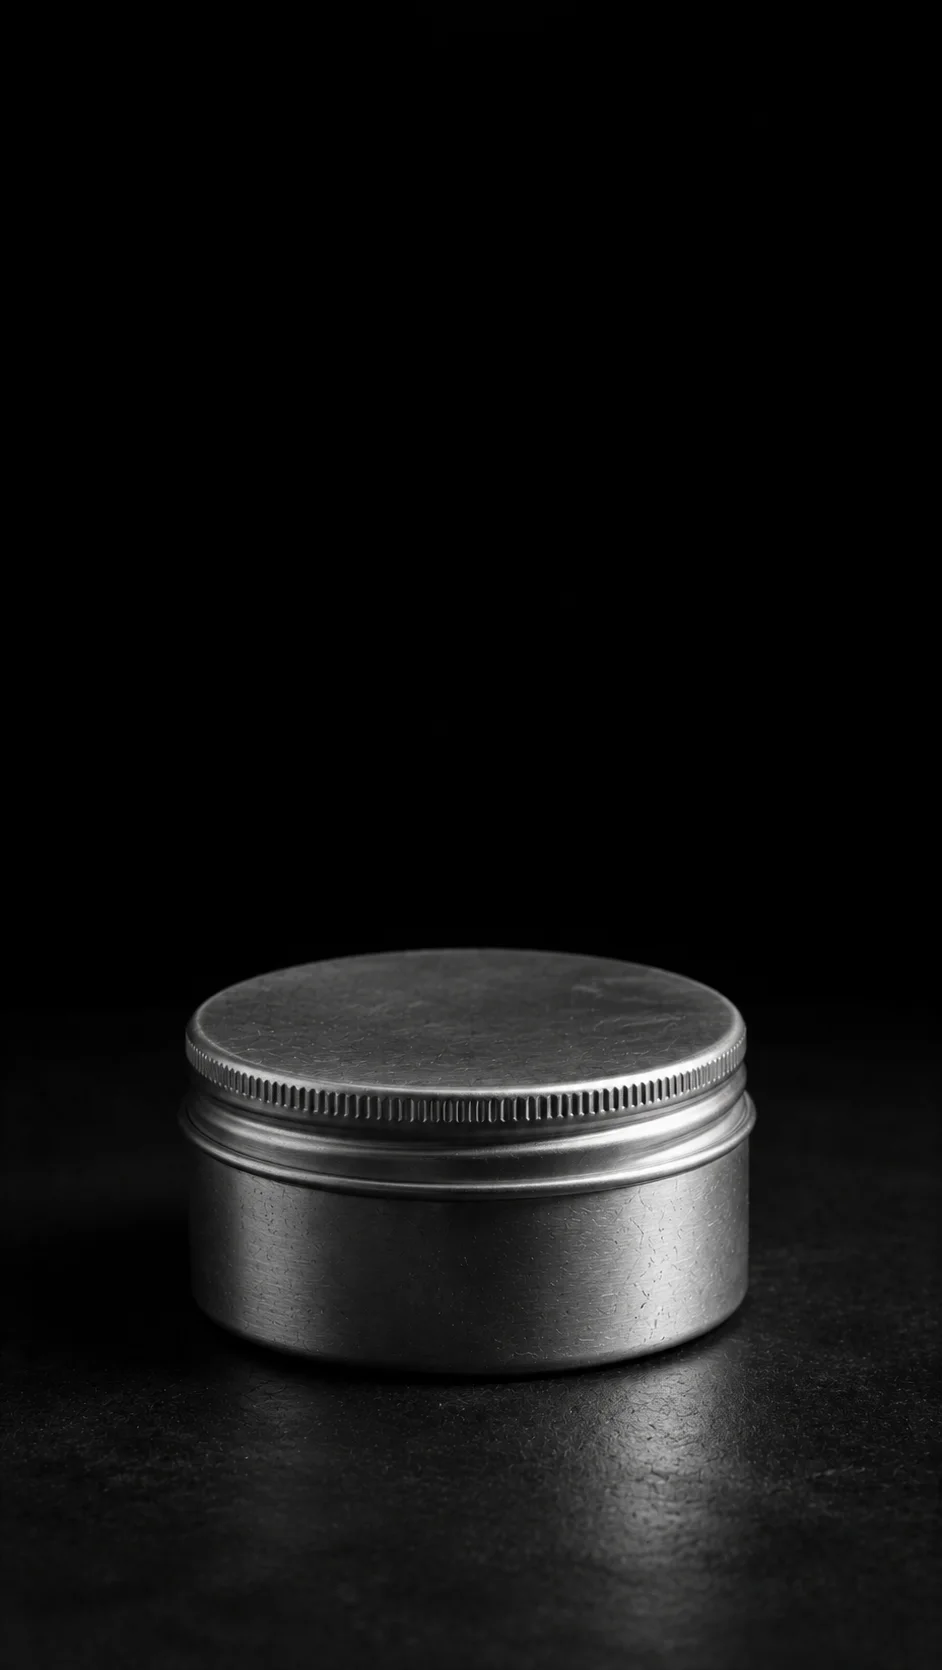
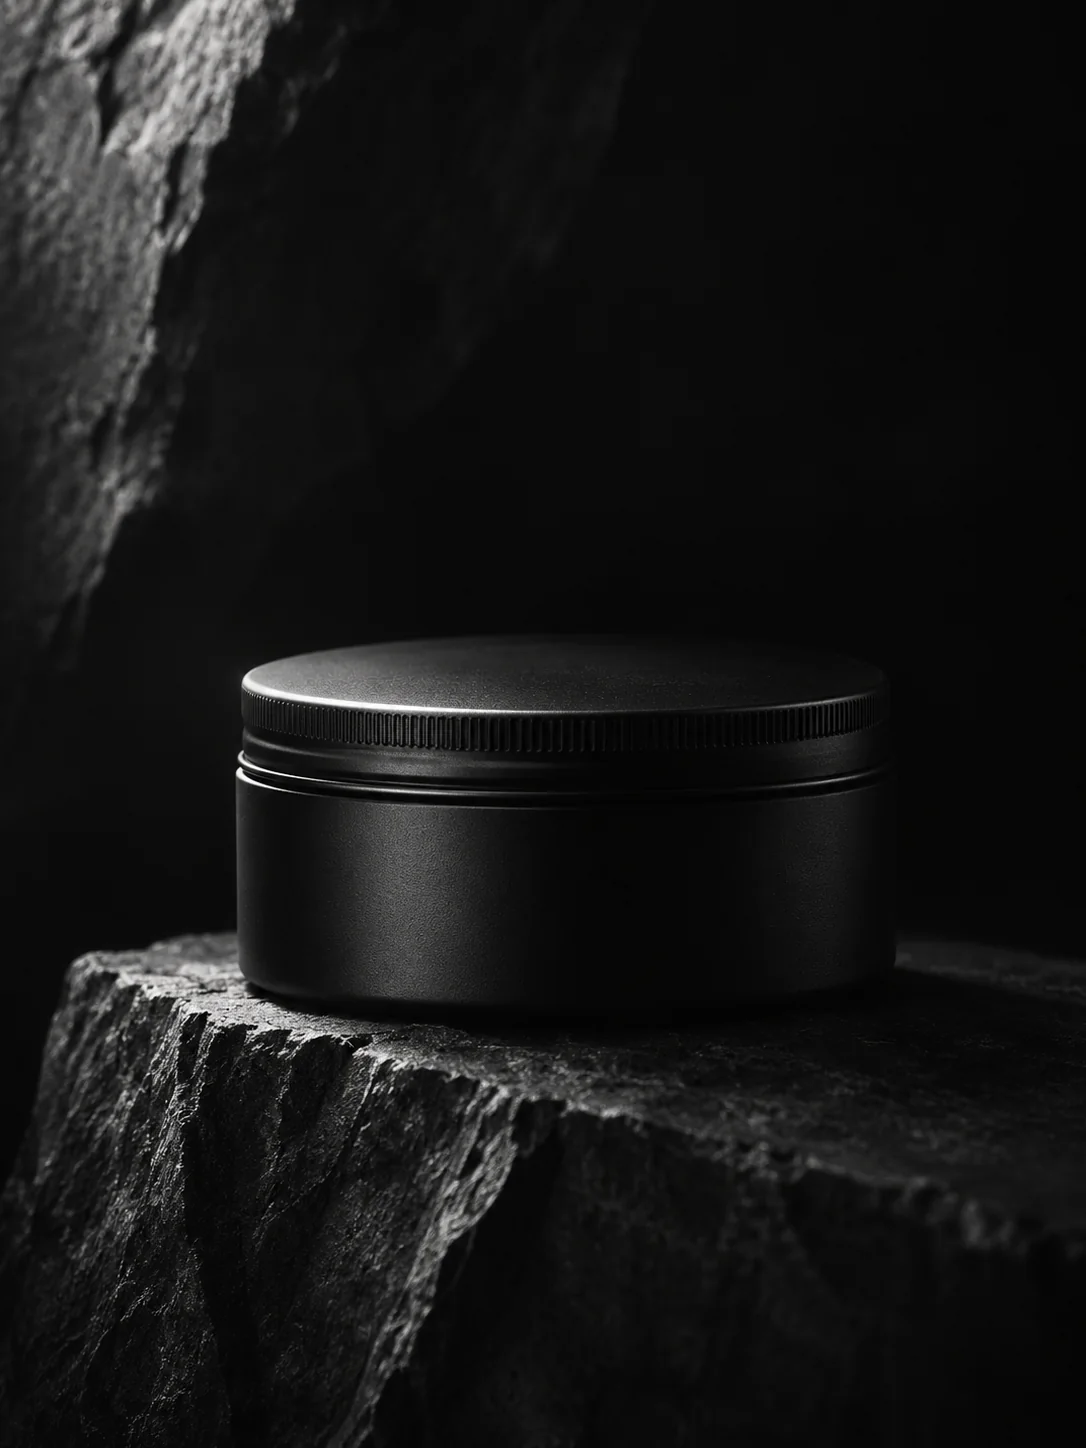
Replace final research question image with owner matte black jar

diff --git a/.impeccable/surfaces/skin-profile.md b/.impeccable/surfaces/skin-profile.md
@@ -1,3 +1,5 @@
+> Latest survey image: question5/5 (image15) now uses the owner-supplied Matte Black Jar on Stone.png, replacing the silver tin. Full/small WebP assets regenerated with source metadata; mobile focal position50%60%. Other cards and result product image preserved.
+
 > Latest owner reversal: restore IMAGE LEFT / TEXT AND ANSWERS RIGHT for all ten quiz and five survey questions above900px. Supersedes the text-left refinement below. Mobile stacking and result pages are preserved.
 
 > Final header adjustment for the text-left question layout: keep the series label centered in the header, clear of the left logo. This supersedes left-edge header alignment; that rule would overlap the logo after the column reversal. All eight full-flow viewport checks passed.

diff --git a/SKIN_PROFILE_IMPLEMENTATION.md b/SKIN_PROFILE_IMPLEMENTATION.md
@@ -1,3 +1,5 @@
+> Latest survey image: question5/5 (image15) now uses the owner-supplied Matte Black Jar on Stone.png, replacing the silver tin. Full/small WebP assets regenerated with source metadata; mobile focal position50%60%. Other cards and result product image preserved.
+
 > Latest owner reversal: restore IMAGE LEFT / TEXT AND ANSWERS RIGHT for all ten quiz and five survey questions above900px. Supersedes the text-left refinement below. Mobile stacking and result pages are preserved.
 
 > Final header adjustment for the text-left question layout: keep the series label centered in the header, clear of the left logo. This supersedes left-edge header alignment; that rule would overlap the logo after the column reversal. All eight full-flow viewport checks passed.
